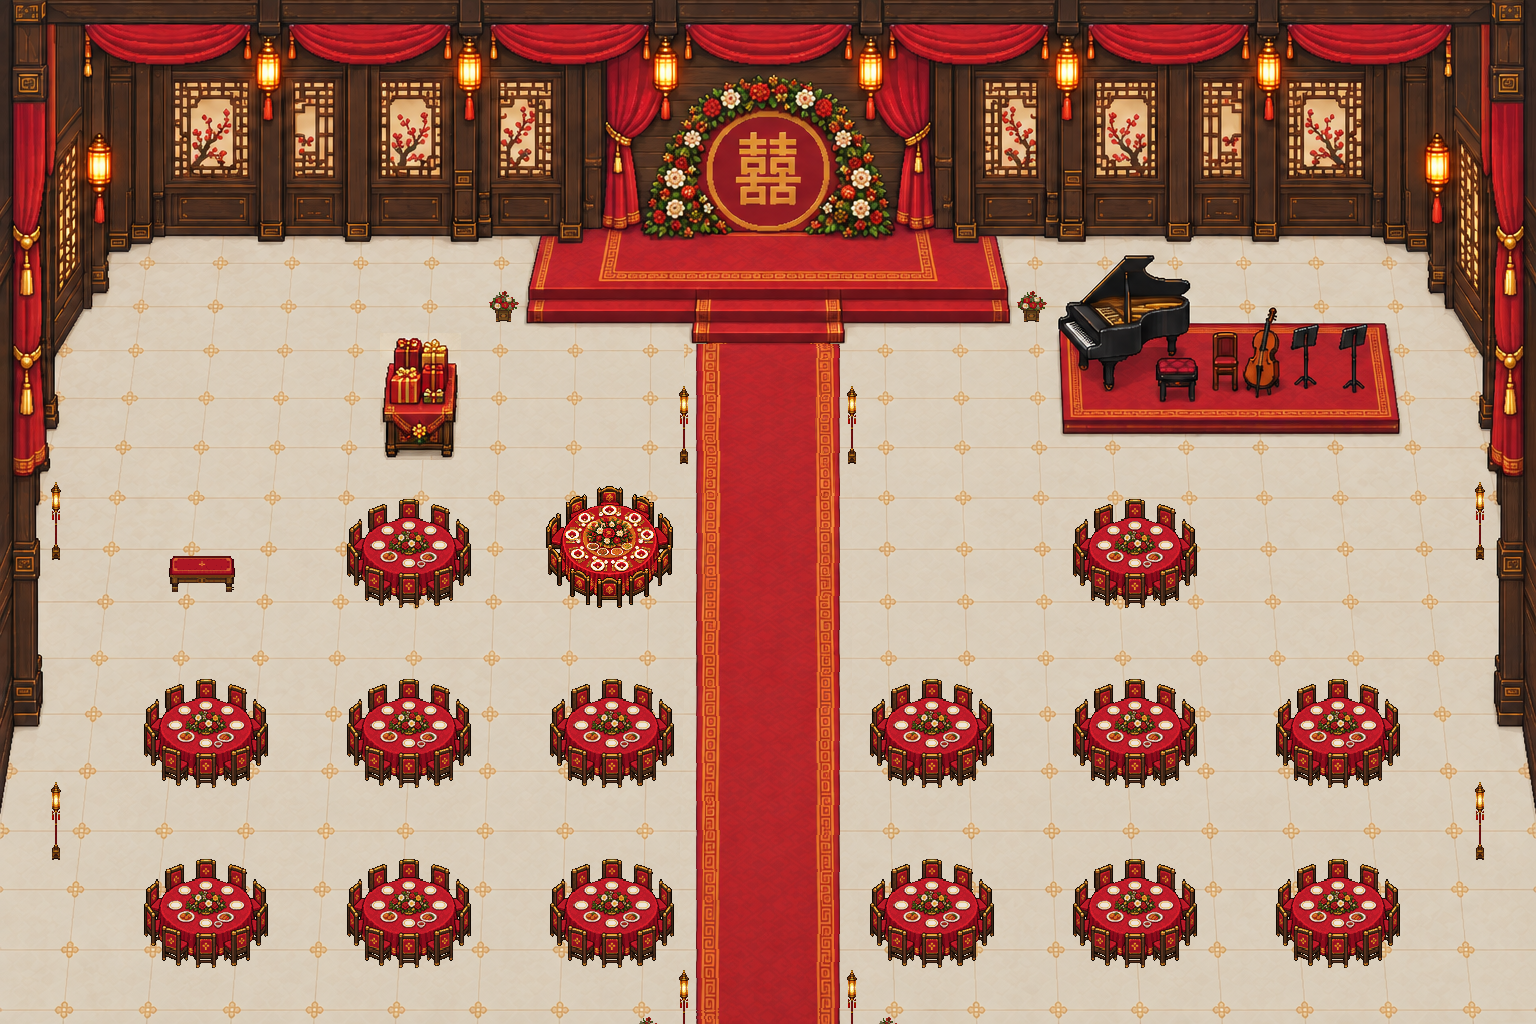
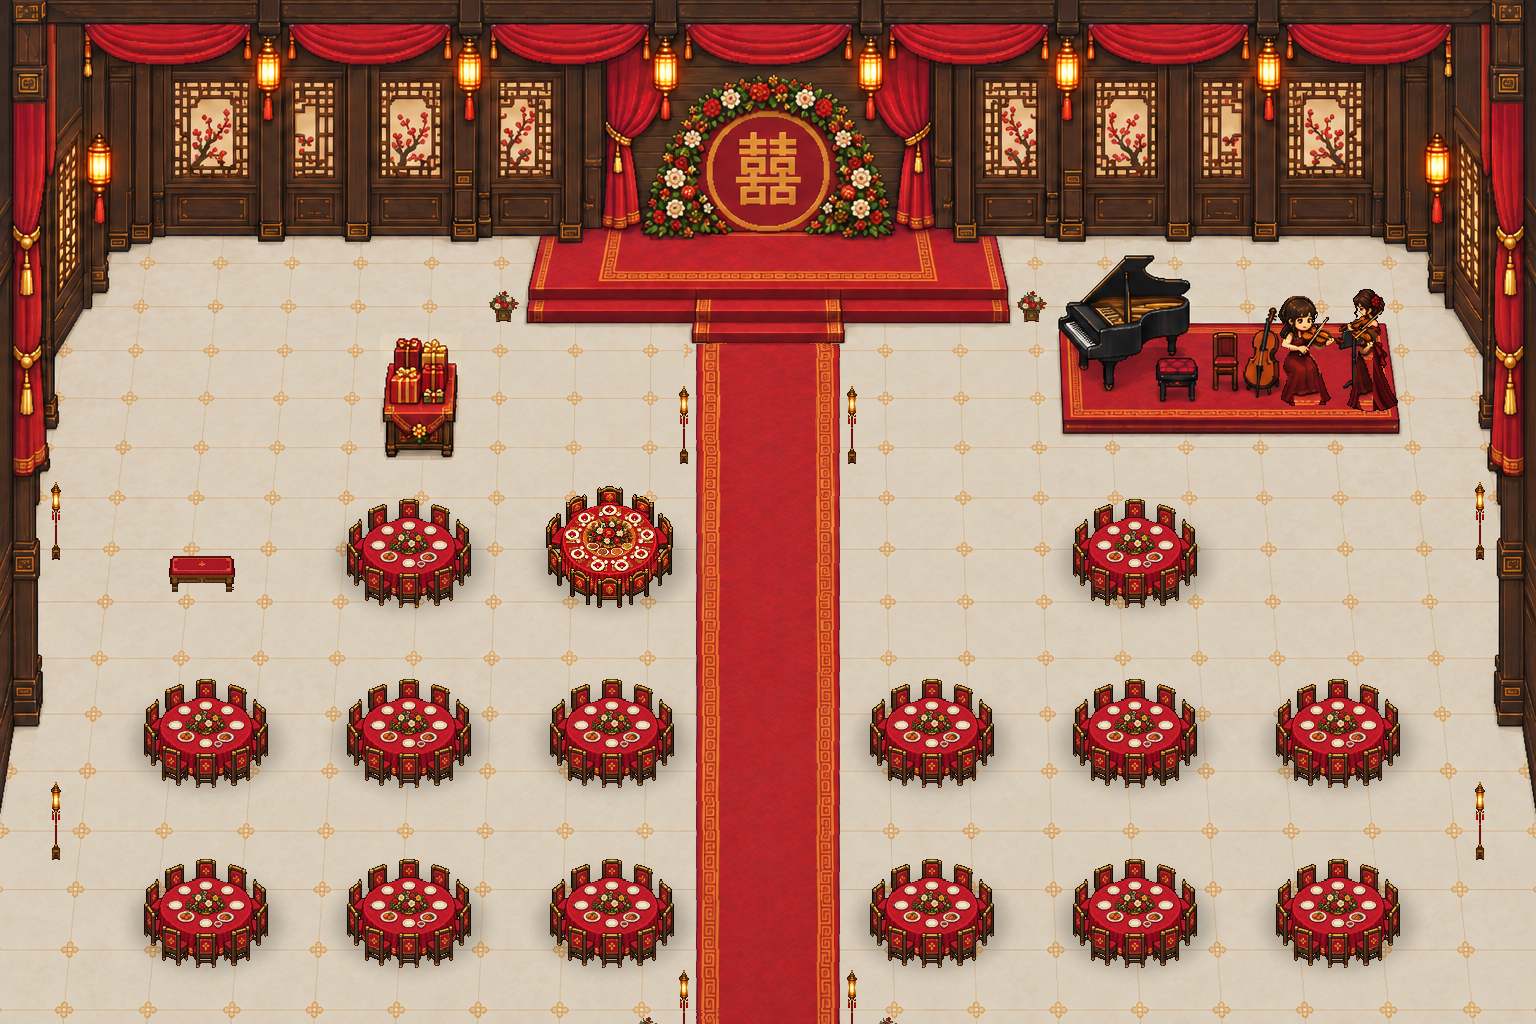
55 桌接图 v1 小加：桌下软边暗影（150×95、黑 20%）、乐队台上摆两位小提琴手（钢琴手、大提琴手零件自带乐器、大提琴手 1.85 倍，没摆，试摆图报 01）

diff --git a/godot/tools/layout_55/build_graybox55.py b/godot/tools/layout_55/build_graybox55.py
@@ -25,7 +25,7 @@ import math
 import os
 import random
 
-from PIL import Image, ImageChops, ImageDraw
+from PIL import Image, ImageChops, ImageDraw, ImageFilter
 
 HERE = os.path.dirname(os.path.abspath(__file__))
 GODOT = os.path.dirname(os.path.dirname(HERE))
@@ -36,6 +36,16 @@ ART = os.path.join(HERE, "art")
 ART_BG = os.path.join(ART, "base_banquet55_north_v1.png")
 ART_PIECES = {"table": "blk_banquet55_table_v1.png", "table_main": "blk_banquet55_table_main_v1.png",
               "bench": "blk_banquet55_bench_v1.png", "lantern": "blk_banquet55_lantern_v1.png", "flowerpot": "blk_banquet55_flowerpot_v1.png"}
+# 乐队台上的乐手（01 D 9/30）：用 12 桌厅那套 GPT 乐手零件（band v3）。只摆两位站着的小提琴手：
+# 量过（人 84、坐着 62）：小提琴 a 高 107（1.3 倍）、b 120（1.4 倍），都没超 1.5 倍，照原样摆在背景两个谱架前面；
+# 弹钢琴的、拉大提琴的零件里自带钢琴、大提琴和椅子，背景里已经画了一套，摆上去就是两架钢琴两把琴；大提琴手还有 1.85 倍，
+# 缩到 0.53 倍脸糊了——这两位先不摆，报 01（见 回执/55桌接图v1-回执.md 9/30 那节）
+BAND_PLAYERS = [
+    {"id": "小提琴手甲", "file": "blk_banquet_band_violin_player_a_v3.png", "anchor": (45, 135), "foot": (1305, 414)},
+    {"id": "小提琴手乙", "file": "blk_banquet_band_violin_player_b_v3.png", "anchor": (43, 134), "foot": (1370, 414)},
+]
+# 桌下软边暗影（01 D 9/30）：每桌底下一块 150×95、黑 20% 的软边椭圆，烘进底图（压在地砖上、桌子下面）
+TABLE_SHADOW = {"w": 150, "h": 95, "alpha": 0.20, "blur": 8, "dx": 5, "dy": 0}
 SOUTH_BAND = (964, 1024)   # 往南接地砖用背景的哪几行（最下面一个砖高 60：往下的砖一行行已经差不多一样高了）
 # 座位圈（量零件图里椅子的位置，02 9/30）：10 把椅子正好每 36° 一把、从正北起；圈心相对桌子占地中心、圈的半径
 SEAT_TABLE = {"abs": True, "dx": 5.0, "dy": -8.0, "rx": 52.0, "ry": 40.0}
@@ -182,6 +192,21 @@ def main():
         bg = Image.open(ART_BG).convert("RGB")
         base, seam = south_extend(bg, W, H)
         bounds = floor_bounds(bg)
+        # 桌下暗影：一块黑的椭圆，边上高斯糊开，乘 20% 叠上去
+        sh = TABLE_SHADOW
+        pad = sh["blur"] * 3
+        m = Image.new("L", (sh["w"] + pad * 2, sh["h"] + pad * 2), 0)
+        ImageDraw.Draw(m).ellipse([pad, pad, pad + sh["w"] - 1, pad + sh["h"] - 1], fill=255)
+        m = m.filter(ImageFilter.GaussianBlur(sh["blur"])).point(lambda v: int(v * sh["alpha"]))
+        dark = Image.new("RGBA", m.size, (0, 0, 0, 0))
+        dark.putalpha(m)
+        base = base.convert("RGBA")
+        for it in items:
+            if it["kind"] == "table":
+                fx, fy, fw, fh = it["foot"]
+                cx, cy = fx + fw // 2 + sh["dx"], fy + fh // 2 + sh["dy"]
+                base.alpha_composite(dark, (cx - m.width // 2, cy - m.height // 2))
+        base = base.convert("RGB")
         g = ImageDraw.Draw(base)
         for it in items:
             if it["name"] == "东侧门（门洞）":   # 背景里没有侧门（墙在 y 760 往下出了画面）：还画色块
@@ -222,6 +247,14 @@ def main():
         occ.append({"id": it["name"], "image": imgs[key], "x": x, "y": y, "foot": foot})
 
     # 桌：主桌 MAIN + T1～T54；x、y 是占地中心（和 12 桌厅一样的规矩），rx、ry 是占地半径
+    if art:
+        for k, bp in enumerate(BAND_PLAYERS):
+            name = "art_band_%d.png" % k
+            Image.open(os.path.join(ART, bp["file"])).save(os.path.join(OUT, name))
+            art_res["band_%d" % k] = RES + name
+            ax, ay = bp["anchor"]
+            fx, fy = bp["foot"]
+            occ.append({"id": bp["id"], "image": RES + name, "x": fx - ax, "y": fy - ay, "foot": fy})
     tables = []
     for it in items:
         if it["kind"] != "table":

diff --git a/godot/回执/55桌接图v1-回执.md b/godot/回执/55桌接图v1-回执.md
@@ -69,3 +69,37 @@
 5. **婚礼台贴着北墙，台后面没有路。** 新人站在台上，客人走不到台后面，和以前一样。
 6. **这次挪了第 1 排，台前变宽了**：台阶下沿到第 1 排椅背有 128，以前是 65。主桌悄悄话那块（台阶前）更好走，但看着台前空一点。
 7. **灰盒色块那套（v3.2）换掉了。** `回执/55桌灰盒-拼回整厅.png` 是 v3.2 的旧图，留着备查。
+
+## 9/30：04 复看过（acded86）以后两处小加（01 D 派）
+
+### 1. 桌下软边暗影
+
+- 每张桌（含主桌）底下一块 150×95 的黑色椭圆：透明度 20%，边上高斯糊开 8 像素，中心在桌子占地中心往右 5（对着零件图里桌子的正中）。
+- 烘进底图：压在地砖上、桌子下面，人和桌子都在它上面。
+- 数在 `build_graybox55.py` 的 TABLE_SHADOW，改了重跑就行。
+- 给阿鱼看要不要地毯（先给 01）：
+  - `回执/55桌接图v1-桌下暗影-台前.png`
+  - `回执/55桌接图v1-桌下暗影-整厅缩图.png`
+- 坐满人的桌，暗影只从椅子外面露一圈，不太显眼。
+
+### 2. 乐队台上的乐手：只摆了两位小提琴手，钢琴手、大提琴手没摆（报 01）
+
+用的是 12 桌厅那套 GPT 乐手零件（band v3：`blk_banquet_band_*_player_v3.png`；12 桌厅现在用的 v4 是乐手和舞台画在一整张里，拆不出单个人）。
+
+**先量**（人 84 高、坐着 62，量不透明像素从头顶到脚）：
+
+| 乐手 | 量出来 | 比例 | 零件里还带了什么 | 摆没摆 |
+|---|---|---|---|---|
+| 小提琴手甲（站） | 107 | 1.3 倍 | 小提琴 | **摆了**，站在西边那个谱架前面，脚 (1305, 414) |
+| 小提琴手乙（站） | 120 | 1.4 倍 | 小提琴 | **摆了**，站在东边那个谱架前面，脚 (1370, 414) |
+| 钢琴手（坐） | 约 92 | 1.5 倍 | **一整架钢琴 + 琴凳** | 没摆 |
+| 大提琴手（坐） | 约 115 | **1.85 倍** | **大提琴 + 椅子** | 没摆 |
+
+**没摆的原因：**
+- **钢琴手、大提琴手的零件里自带钢琴和大提琴。** 背景里已经画了一架钢琴、一把大提琴、琴凳和椅子，放上去就是两架钢琴、两把大提琴。试摆图 `回执/55桌接图v1-乐手试摆.png`：左边是游戏里现在的样子，右边是两位原大放上去（不进游戏）。
+- **大提琴手超了 1.5 倍**，要缩到 0.53 倍。缩完脸上的眼睛、嘴糊成几个点，看得出是人，看不出表情。
+- 这两位要摆，得 GPT 交**不带乐器、不带凳子**的钢琴手、大提琴手（坐着 62 高），坐到背景里的琴凳、椅子上；或者 GPT 补南边时把乐手直接画进背景。
+
+**摆了的两位**：没缩。站在台前、背景的谱架前面，按脚排前后（台子上不让人走，客人不会走到他们后面）。两位比客人（84）高一截，站在台上显眼，请 04 看会不会太大。
+
+**测试：** 客户端 29 个全过；导入 600 秒 grep 0。
